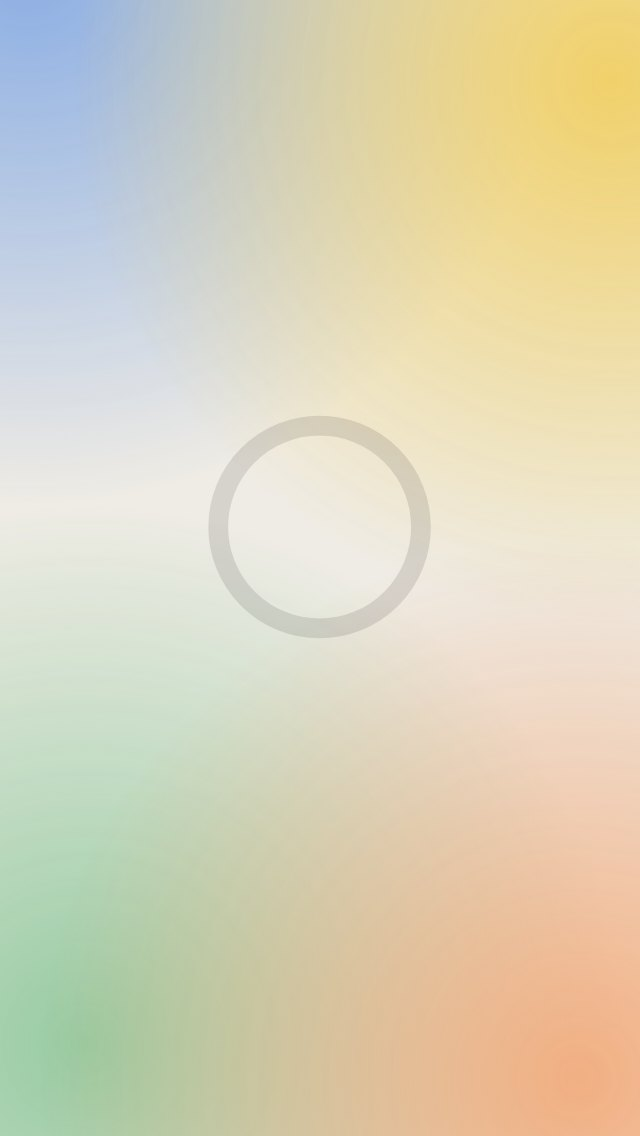
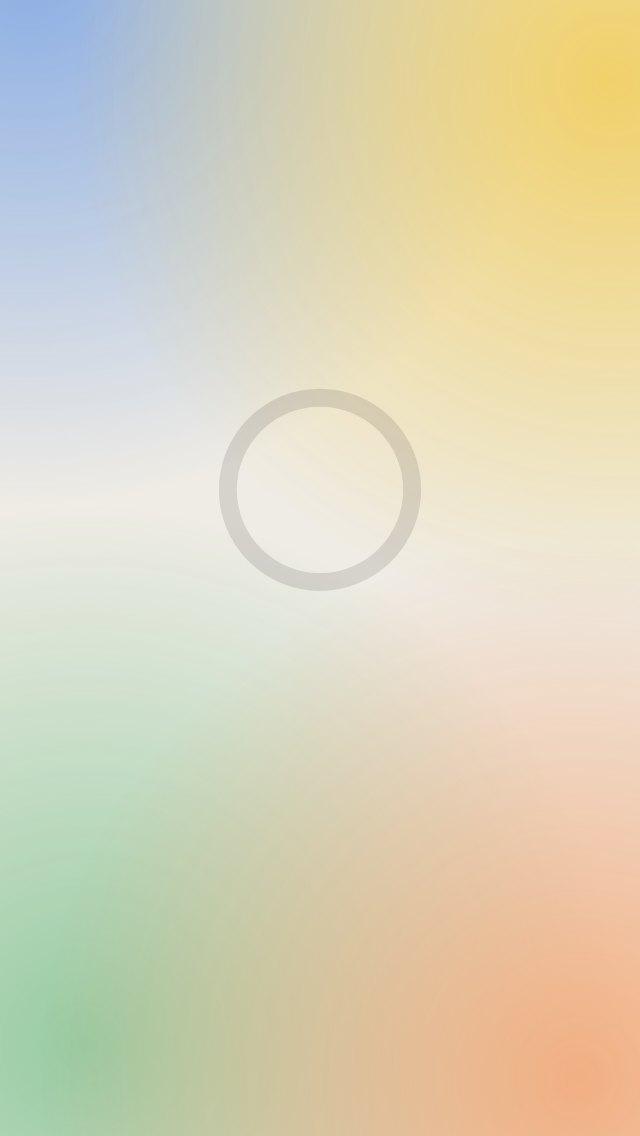
Intro rápida (~2 s) y «¡HEY!» en el Dash
- Intro: la línea circular gris oscuro del Dash (con el puntito) da la
  vuelta, se rellena con el círculo blanco y sale el asa: la kettlebell sin
  cara ni brazos. «Entrena con / Método.» en dos líneas con la letra de las
  frases de Hoy; «Método.» en el gris de la línea. ~2 s desde que arranca.
- Imágenes de arranque del iPhone rehechas con el nuevo primer cuadro.
- Dash: la bandera dice «¡HEY!».

Claude-Session: https://claude.ai/code/session_017q9eB3jcU4JAqbgUHmF9x1

Changed region(s): [[0.3125, 0.3389, 0.6875, 0.5854]]

diff --git a/index.html b/index.html
@@ -141,16 +141,13 @@
          volver a ella desde segundo plano tras 2 h o más (ver main.jsx).
          Para que NO se trabe: mientras la app carga solo se ven el fondo y el
          riel del anillo; la secuencia arranca (html.intro-anda) cuando la app
-         ya está armada debajo. Ritmo suave, sin apuro:
-           0.20–1.60 s  la línea circular de progreso, gris oscuro, como las
+         ya está armada debajo. Rápida, como la de cualquier app:
+           0.05–0.75 s  la línea circular de progreso, gris oscuro, como las
                         del Dash, con el puntito en la punta, da la vuelta
-           0.30–1.40 s  «Entrena con Método.», palabra por palabra
-           1.60–2.20 s  se rellena con el círculo blanco
-           2.10–2.60 s  la línea se vuelve blanca y se desvanece
-           2.40–2.90 s  sale el asa
-           2.70–3.40 s  las piernas, los brazos con sus mancuernas y la cara
-           ~3.9 s       un parpadeo
-           4.80 s       el fondo se desvanece y aparece la app
+           0.10–0.70 s  «Entrena con / Método.» en dos líneas
+           0.75–1.10 s  se rellena con el círculo blanco
+           1.05–1.40 s  sale el asa: la kettlebell (sin cara ni brazos)
+           2.00 s       el fondo se desvanece y aparece la app
          El fondo cubre TODA la pantalla del teléfono, también la franja de
          abajo (en el iPhone «inset: 0» se quedaba corto y se veía la app), y
          se mide con la pantalla, no con la vista: al abrir desde el ícono el
@@ -178,45 +175,34 @@
       /* La escena: del tamaño de la pantalla visible (el contenedor es más
          grande que la pantalla, para tapar todo) */
       #splash2 .escena { position: absolute; left: 0; right: 0; top: 60px; height: 100vh; height: var(--alto-pantalla, 100lvh); }
-      /* La figura, en el centro (la sombra es una mancha fija debajo, no un
-         filtro: un filtro sobre algo que se anima cuesta en el teléfono) */
-      #splash2 .marca { position: absolute; left: 50%; top: 43%; width: min(88vw, 380px); height: min(88vw, 380px);
-        margin: calc(min(88vw, 380px) / -2) 0 0 calc(min(88vw, 380px) / -2); overflow: visible; }
-      #splash2 .sombra { position: absolute; left: 50%; top: calc(43% + min(19vw, 82px)); width: min(46vw, 200px); height: 28px; margin-left: calc(min(46vw, 200px) / -2);
-        border-radius: 50%; background: radial-gradient(closest-side, rgba(40,40,30,.18), rgba(40,40,30,0)); opacity: 0; }
+      /* La figura, en el centro */
+      #splash2 .marca { position: absolute; left: 50%; top: 40%; width: min(80vw, 340px); height: min(80vw, 340px);
+        margin: calc(min(80vw, 340px) / -2) 0 0 calc(min(80vw, 340px) / -2); overflow: visible; }
+      #splash2 .sombra { position: absolute; left: 50%; top: calc(40% + min(15vw, 64px)); width: min(40vw, 170px); height: 24px; margin-left: calc(min(40vw, 170px) / -2);
+        border-radius: 50%; background: radial-gradient(closest-side, rgba(40,40,30,.16), rgba(40,40,30,0)); opacity: 0; }
       /* Estado inicial (mientras carga): solo el riel */
       #splash2 .avance { opacity: 0; stroke-dasharray: 100 100; stroke-dashoffset: 100; }
-      #splash2 .punta, #splash2 .piernas, #splash2 .cara, #splash2 .brazos { opacity: 0; }
+      #splash2 .punta { opacity: 0; }
       #splash2 .cuerpo { transform-box: fill-box; transform-origin: 50% 50%; transform: scale(0); }
       #splash2 .asa { stroke-dasharray: 100 100; stroke-dashoffset: 100; }
-      #splash2 .brazos { transform: translateY(6px); }
-      #splash2 .ojos { transform-box: fill-box; transform-origin: 50% 50%; }
-      /* La secuencia, sin apuro */
-      html.intro-anda #splash2 .avance { animation: s2in .01s linear .2s forwards, s2traza 1.4s cubic-bezier(.45,0,.35,1) .2s forwards, s2blanco .35s ease-out 2.1s forwards; }
-      html.intro-anda #splash2 .riel { animation: s2blanco .35s ease-out 2.1s forwards; }
-      html.intro-anda #splash2 .punta { animation: s2in .01s linear .2s forwards, s2fuera .25s ease-out 1.5s forwards; }
-      html.intro-anda #splash2 .cuerpo { animation: s2nace .6s cubic-bezier(.3,1.12,.5,1) 1.6s forwards; }
-      html.intro-anda #splash2 .anillo { animation: s2fuera .4s ease-out 2.3s forwards; }
-      html.intro-anda #splash2 .sombra { animation: s2in .6s ease-out 1.8s forwards; }
-      html.intro-anda #splash2 .asa { animation: s2traza .5s cubic-bezier(.4,0,.3,1) 2.4s forwards; }
-      html.intro-anda #splash2 .piernas { animation: s2in .4s ease-out 2.7s forwards; }
-      html.intro-anda #splash2 .brazos { animation: s2brazos .5s cubic-bezier(.2,.8,.2,1) 2.85s forwards; }
-      html.intro-anda #splash2 .cara { animation: s2in .4s ease-out 3.0s forwards; }
-      html.intro-anda #splash2 .ojos { animation: s2parpadea .35s ease-in-out 3.9s 1; }
-      /* El nombre: la letra de las frases grandes de Hoy, en negro; sale casi al empezar */
-      #splash2 .nombre { position: absolute; left: 0; right: 0; top: calc(43% + min(37vw, 160px)); margin: 0; text-align: center;
-        font-family: 'ECM Splash', -apple-system, system-ui, sans-serif; font-weight: 800; font-size: clamp(28px, 8.4vw, 36px);
-        line-height: 1.08; letter-spacing: -0.03em; }
-      #splash2 .nombre span { display: inline-block; color: #1F1F1F; opacity: 0; transform: translateY(10px); }
-      html.intro-anda #splash2 .nombre span { animation: s2palabra .6s cubic-bezier(.2,.8,.2,1) forwards; }
-      html.intro-anda #splash2 .nombre .p1 { animation-delay: .3s; }
-      html.intro-anda #splash2 .nombre .p2 { animation-delay: .5s; }
-      html.intro-anda #splash2 .nombre .p3 { animation-delay: .7s; }
-      html.intro-anda #splash2 .nombre .p4 { animation-delay: .9s; }
+      /* La secuencia: rápida, como la de cualquier app (~2 s) */
+      html.intro-anda #splash2 .avance { animation: s2in .01s linear .05s forwards, s2traza .7s cubic-bezier(.45,0,.35,1) .05s forwards; }
+      html.intro-anda #splash2 .punta { animation: s2in .01s linear .05s forwards, s2fuera .15s ease-out .7s forwards; }
+      html.intro-anda #splash2 .cuerpo { animation: s2nace .35s cubic-bezier(.3,1.1,.5,1) .75s forwards; }
+      html.intro-anda #splash2 .anillo { animation: s2fuera .25s ease-out .95s forwards; }
+      html.intro-anda #splash2 .sombra { animation: s2in .3s ease-out .85s forwards; }
+      html.intro-anda #splash2 .asa { animation: s2traza .35s cubic-bezier(.4,0,.3,1) 1.05s forwards; }
+      /* El nombre en dos líneas, con la letra de las frases grandes de Hoy;
+         «Método.» en el gris de la línea circular */
+      #splash2 .nombre { position: absolute; left: 0; right: 0; top: calc(40% + min(28vw, 120px)); margin: 0; text-align: center;
+        font-family: 'ECM Splash', -apple-system, system-ui, sans-serif; font-weight: 800; font-size: clamp(30px, 9vw, 40px);
+        line-height: 1.04; letter-spacing: -0.035em; color: #1F1F1F; }
+      #splash2 .nombre span { display: block; opacity: 0; transform: translateY(8px); }
+      #splash2 .nombre .p2 { color: #4A4843; }
+      html.intro-anda #splash2 .nombre span { animation: s2palabra .45s cubic-bezier(.2,.8,.2,1) forwards; }
+      html.intro-anda #splash2 .nombre .p1 { animation-delay: .1s; }
+      html.intro-anda #splash2 .nombre .p2 { animation-delay: .22s; }
       @keyframes s2nace { to { transform: scale(1); } }
-      @keyframes s2brazos { to { opacity: 1; transform: none; } }
-      @keyframes s2parpadea { 0%, 100% { transform: scaleY(1); } 50% { transform: scaleY(.15); } }
-      @keyframes s2blanco { to { stroke: #FFFFFF; stroke-opacity: 1; } }
       @keyframes s2palabra { to { opacity: 1; transform: none; } }
       @keyframes s2traza { to { stroke-dashoffset: 0; } }
       @keyframes s2in { to { opacity: 1; } }
@@ -263,10 +249,6 @@
       <div class="escena">
       <div class="sombra"></div>
       <svg class="marca" viewBox="-100 -110 200 200" fill="none" aria-hidden="true">
-        <g class="piernas">
-          <g stroke="#FFFFFF" stroke-width="6" stroke-linecap="round"><path d="M-11 31 L-14 43"/><path d="M11 31 L14 43"/></g>
-          <ellipse cx="-17" cy="44.5" rx="6.5" ry="3" fill="#FFFFFF"/><ellipse cx="17" cy="44.5" rx="6.5" ry="3" fill="#FFFFFF"/>
-        </g>
         <path class="asa" d="M-21 -17C-27 -36 -20 -49 0 -49C20 -49 27 -36 21 -17" pathLength="100" stroke="#FFFFFF" stroke-width="11" stroke-linecap="round"/>
         <path class="cuerpo" d="M-22.6 32A36 36 0 1 1 22.6 32Z" fill="#FFFFFF"/>
         <!-- Primero: la línea circular de progreso del Dash, gris oscuro, con
@@ -274,22 +256,10 @@
         <g class="anillo">
           <circle class="riel" cx="0" cy="4" r="36" stroke="#2B2A27" stroke-opacity="0.13" stroke-width="7"/>
           <path class="avance" d="M0 -32 A36 36 0 1 1 -0.01 -32" pathLength="100" stroke="#4A4843" stroke-width="7" stroke-linecap="round"/>
-          <g class="punta"><circle cx="0" cy="-32" r="2.3" fill="#FFFFFF"/><animateTransform attributeName="transform" type="rotate" values="0 0 4;360 0 4" begin=".2s" dur="1.4s" fill="freeze" calcMode="spline" keyTimes="0;1" keySplines=".45 0 .35 1"/></g>
-        </g>
-        <!-- La cara de siempre: ojos cerrados en arco y sonrisa ancha -->
-        <g class="cara" stroke="#2B2A27" stroke-width="2.7" stroke-linecap="round">
-          <g class="ojos"><path d="M-11 -8 Q-7 -3.5 -3 -8"/><path d="M3 -8 Q7 -3.5 11 -8"/></g>
-          <path d="M-15 0 Q0 12 15 0"/>
-        </g>
-        <!-- Los brazos con sus mancuernas -->
-        <g class="brazos">
-          <path d="M-35 2 L-45 19 L-47 34" stroke="#FFFFFF" stroke-width="6" stroke-linecap="round" stroke-linejoin="round"/>
-          <path d="M35 2 L45 19 L47 34" stroke="#FFFFFF" stroke-width="6" stroke-linecap="round" stroke-linejoin="round"/>
-          <g transform="translate(-47 34)"><rect x="-12" y="-1.7" width="24" height="3.4" rx="1.7" fill="#3A3935"/><rect x="-14" y="-7" width="5.5" height="14" rx="2" fill="#3A3935"/><rect x="8.5" y="-7" width="5.5" height="14" rx="2" fill="#3A3935"/><rect x="-18.5" y="-4.5" width="4.5" height="9" rx="1.8" fill="#3A3935"/><rect x="14" y="-4.5" width="4.5" height="9" rx="1.8" fill="#3A3935"/></g>
-          <g transform="translate(47 34)"><rect x="-12" y="-1.7" width="24" height="3.4" rx="1.7" fill="#3A3935"/><rect x="-14" y="-7" width="5.5" height="14" rx="2" fill="#3A3935"/><rect x="8.5" y="-7" width="5.5" height="14" rx="2" fill="#3A3935"/><rect x="-18.5" y="-4.5" width="4.5" height="9" rx="1.8" fill="#3A3935"/><rect x="14" y="-4.5" width="4.5" height="9" rx="1.8" fill="#3A3935"/></g>
+          <g class="punta"><circle cx="0" cy="-32" r="2.3" fill="#FFFFFF"/><animateTransform attributeName="transform" type="rotate" values="0 0 4;360 0 4" begin=".05s" dur=".7s" fill="freeze" calcMode="spline" keyTimes="0;1" keySplines=".45 0 .35 1"/></g>
         </g>
       </svg>
-      <p class="nombre"><span class="p1">Entrena</span> <span class="p2">con</span> <span class="p3">Método</span><span class="p4">.</span></p>
+      <p class="nombre"><span class="p1">Entrena con</span><span class="p2">Método.</span></p>
       </div>
       <script>
         // La secuencia espera a que la app esté armada (main.jsx la arranca);

diff --git a/src/IlustracionesCabecera.jsx b/src/IlustracionesCabecera.jsx
@@ -5,7 +5,7 @@
 // las de verdad (bola con base plana y asa gruesa), con LA MISMA cara en
 // todas las secciones, al estilo Headspace: ojos cerrados en arco y una
 // sonrisa ancha. En cada sección hace lo suyo:
-//   Dash           levanta la bandera «HEY CHAMP!» con papelillo de celebración
+//   Dash           levanta la bandera «¡HEY!» con papelillo de celebración
 //   Entrenamiento  levanta la barra
 //   Alimentación   tenedor con el bocado en una mano y el plato en la otra
 //   Aprendizaje    sostiene el libro abierto en alto; se le prende el foco
@@ -86,7 +86,7 @@ function Piernas() {
 const brazo = { stroke: B, strokeWidth: 6, strokeLinecap: 'round', fill: 'none' };
 
 export function IlusDash() {
-  // Levanta una bandera de ánimo —«HEY CHAMP!»— con los dos brazos, como la
+  // Levanta una bandera de ánimo —«¡HEY!»— con los dos brazos, como la
   // barra de Entrenamiento, y a los lados salta papelillo de celebración en
   // los colores de los cuatro módulos.
   const abajo = ['M-35 2 Q-60 -18 -44 -58', 'M35 2 Q60 -18 44 -58'];
@@ -119,8 +119,8 @@ export function IlusDash() {
         <g transform="translate(0 -70)">
           <animateTransform attributeName="transform" type="translate" values="0 -70;0 -79;0 -70" {...anim} />
           {/* La bandera: tela amarilla (el color del Dash), con un vaivén */}
-          <path d="M-60 -14 H60 L54 0 L60 14 H-60 L-54 0 Z" fill="#F2C94C" />
-          <text x="0" y="5.2" textAnchor="middle" fontFamily="'Figtree Variable', Figtree, system-ui, sans-serif" fontWeight="900" fontSize="14.5" letterSpacing="0.2" fill="#2B2A27">HEY CHAMP!</text>
+          <path d="M-46 -14 H46 L40 0 L46 14 H-46 L-40 0 Z" fill="#F2C94C" />
+          <text x="0" y="5.2" textAnchor="middle" fontFamily="'Figtree Variable', Figtree, system-ui, sans-serif" fontWeight="900" fontSize="16" letterSpacing="0.4" fill="#2B2A27">¡HEY!</text>
           <circle cx="-44" cy="12" r="4.8" fill={B} /><circle cx="44" cy="12" r="4.8" fill={B} />
         </g>
       </g>

diff --git a/src/main.jsx b/src/main.jsx
@@ -46,13 +46,13 @@ ReactDOM.createRoot(document.getElementById('root')).render(
 if (typeof window !== 'undefined') {
   const warmStart = (() => { try { return !!sessionStorage.getItem('mt:booted'); } catch (e) { return false; } })();
   // Visual nueva: la entrada (cada vez que se abre la app, ver index.html)
-  // dura ~4,8 s desde que ARRANCA; el fondo se desvanece y aparece la app.
+  // dura ~2 s desde que ARRANCA; el fondo se desvanece y aparece la app.
   // Arranca cuando la app ya está armada debajo: mientras React monta, el
   // teléfono está ocupado y la animación se trabaría (se veía «congelada»).
   const raiz = document.documentElement;
   const splashV2 = raiz.classList.contains('splash-v2');
   const conEntrada = raiz.classList.contains('intro-completa');
-  const ENTRADA_MS = 4800;
+  const ENTRADA_MS = 2000;
   const cerrarEntrada = () => {
     document.body.classList.add('app-ready');
     if (splashV2) { const tc = document.querySelector('meta[name="theme-color"]'); if (tc) tc.setAttribute('content', '#F1F0EA'); }
